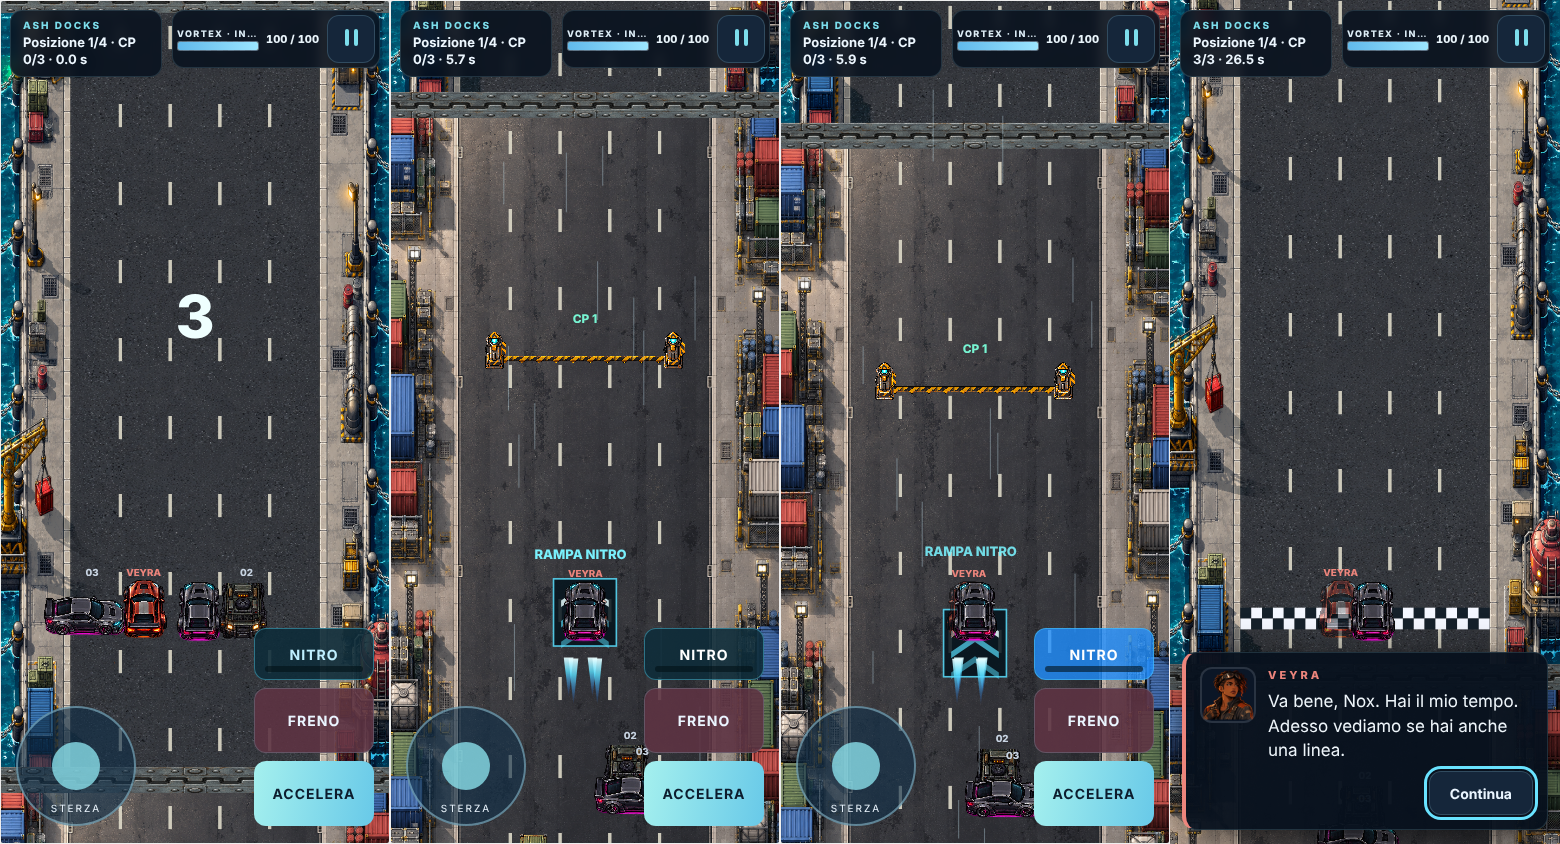
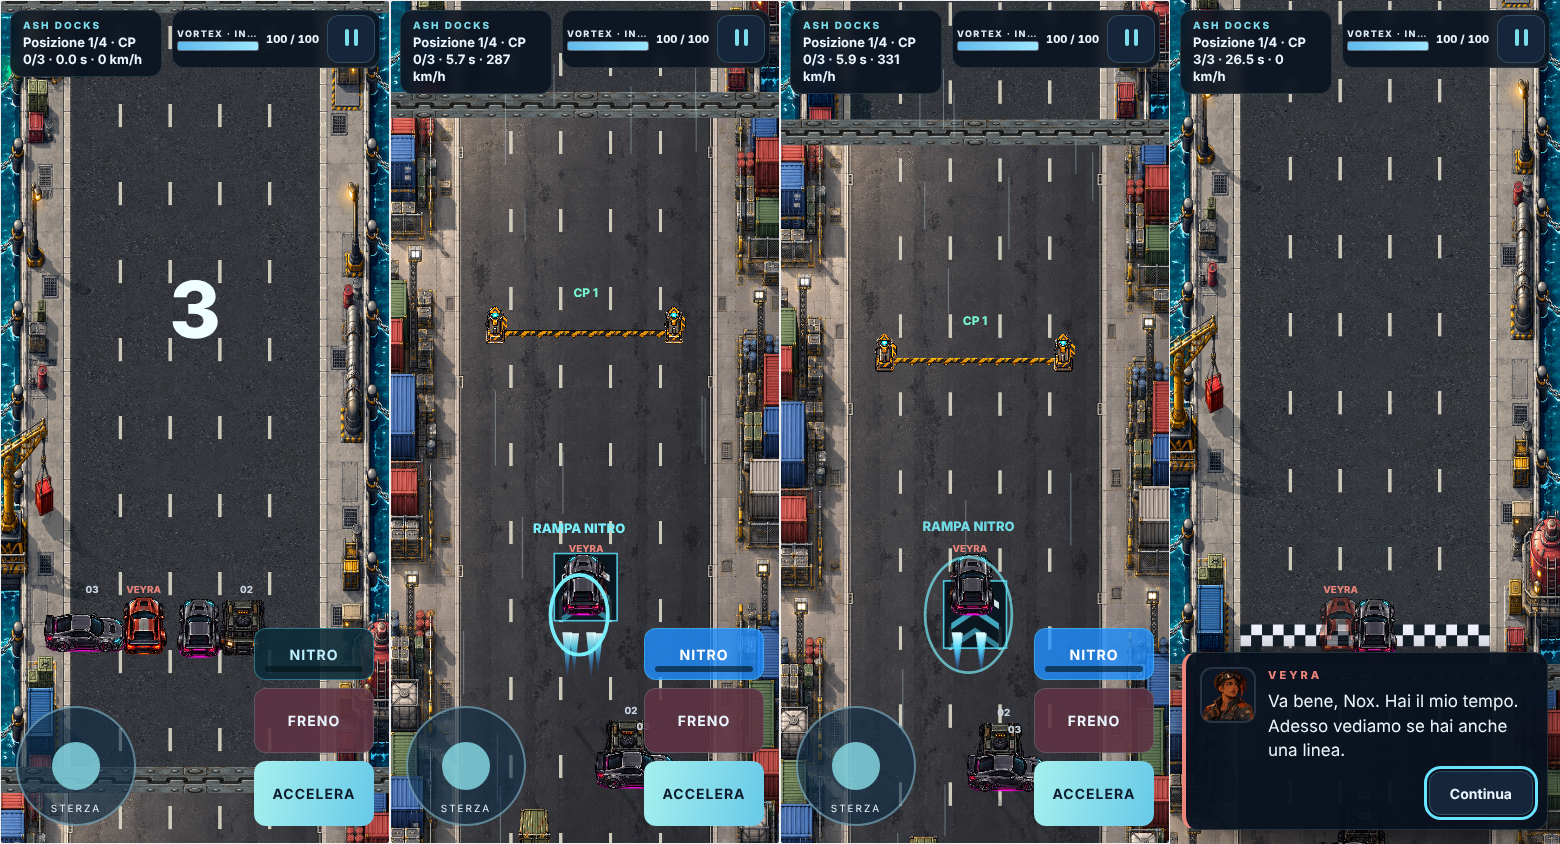
Controls: floating stick anywhere on the map, livelier driving, haptics (D16)
A finger on any open part of the map spawns the stick under it: steering while driving,
movement on foot; the ring follows the finger past its edge. Races: camera leans into
turns and lifts with speed, the Vortex rolls, bounces on hits and stretches on nitro, tyre
marks, kerb sparks, dust and spray, rings on checkpoints and boosts, animated countdown and
GO, ACCELERATE pulses in the perfect-start window, speed in km/h. Vibration on hits, nitro,
pads, start and checkpoints, switchable in Pause (Android VIBRATE permission). Reduced
motion disables lean, particles and pulses. Browser checks: drag on the map moves Nox and
steers the Vortex in both orientations; campaign A, controls and hub race PASS.

Claude-Session: https://claude.ai/code/session_01BT5bssz8wxobfyJt6rg4Qi

diff --git a/game/index.html b/game/index.html
@@ -11,12 +11,12 @@
 <div id="controls" hidden><div id="stick" aria-label="Muovi"><div id="knob"></div></div><div class="actions"><button id="heal" hidden aria-label="Cura"><img src="art/v09/medseal.svg" alt=""><span id="heal-label">CURA · 0</span></button><button id="interact" hidden>Attiva</button><button id="duo" hidden>Duo</button><button id="magic" hidden>Pulse</button><button id="dash">Schiva</button><button id="gun" class="primary">Spara</button></div></div>
 <section id="weapon-controls" hidden aria-label="Armi"><span id="weapon-state"></span><button id="weapon-change"><i class="weapon-glyph" aria-hidden="true"></i>CAMBIA</button><button id="weapon-reload">RICARICA</button></section>
 <section id="field-kit" class="modal" hidden role="dialog" aria-modal="true" aria-labelledby="field-kit-title"><div class="card"><small>TESSA · TECNICA D’OFFICINA</small><h2 id="field-kit-title">Un attrezzo per ogni distanza.</h2><div class="tessa-gesture" aria-hidden="true"></div><p>«Il mio banco viaggia anche a officina chiusa. VX-9 a Nox: raffiche da tre. R-12 a Lulù: rosate da vicino. La C-9 resta con voi.»</p><p>Il componente di Rook diventa Quickdraw: dopo Schiva, il prossimo tiro C-9 recupera più in fretta. Usa CAMBIA nel prossimo combattimento; RICARICA riempie il caricatore.</p><button id="equip-kit" class="primary">Monta Quickdraw e prendi le armi</button></div></section>
-<div id="driving-controls" hidden><div id="drive-stick" aria-label="Sterza"><div id="drive-knob"></div><span>STERZA</span></div><div><button id="pulse" hidden>IMPULSO</button><button id="nitro" hidden aria-label="Nitro">NITRO<span aria-hidden="true"><i></i></span></button><button id="brake">FRENO</button><button id="accelerate" class="primary">ACCELERA</button></div></div>
+<div id="float-stick" hidden aria-hidden="true"><div></div></div><div id="driving-controls" hidden><div id="drive-stick" aria-label="Sterza"><div id="drive-knob"></div><span>STERZA</span></div><div><button id="pulse" hidden>IMPULSO</button><button id="nitro" hidden aria-label="Nitro">NITRO<span aria-hidden="true"><i></i></span></button><button id="brake">FRENO</button><button id="accelerate" class="primary">ACCELERA</button></div></div>
 <section id="talk" hidden><div><i class="portrait"></i><div class="talk-body"><small id="speaker"></small><p id="line"></p><button id="next-line">Avanti</button></div></div></section>
 <section id="choice" class="modal" hidden role="dialog" aria-modal="true" aria-labelledby="choice-title"><div class="card"><small id="choice-kicker">SCEGLI</small><h2 id="choice-title"></h2><div id="choice-options"></div><p class="choice-note">Nessuna scelta è quella giusta. La città se le ricorda tutte.</p></div></section>
 <section id="hold" class="modal" hidden role="dialog" aria-modal="true" aria-labelledby="hold-title"><div class="card"><small id="hold-kicker"></small><h2 id="hold-title"></h2><p id="hold-text"></p><button id="hold-button" class="primary"><i id="hold-fill"></i><span id="hold-label">Tieni premuto</span></button></div></section>
 <section id="knock" hidden aria-label="Batti due volte"><p id="knock-prompt">Se mi senti, batti due volte.</p><button id="knock-surface" aria-label="Batti"><i id="knock-count" aria-hidden="true"></i></button></section>
-<section id="pause-panel" class="modal" hidden role="dialog" aria-modal="true"><div class="card"><small>CHRONOS ADVENTURE · NOX &amp; LULÚ</small><h2>Pausa</h2><label>Lingua <select id="language" aria-label="Lingua"><option value="it">Italiano</option><option value="en">English</option></select></label><label><input id="sound" type="checkbox"> Audio</label><label><input id="reduced" type="checkbox"> Riduci scosse dello schermo</label><p id="pause-help">Spara: tiro assistito. Trascina e rilascia per mirare.<br>Tastiera: WASD muovi · J spara · L abilità · E attiva · Q speciale · Maiusc schiva · H cura · V cambia arma · R ricarica.<br>Il salvataggio riparte dall’inizio della missione, o dal boss se l’hai già raggiunto.</p><button id="resume" class="primary">Riprendi</button><button id="restart-mission">Ricomincia la missione</button><button id="menu-return">Menu principale</button></div></section>
+<section id="pause-panel" class="modal" hidden role="dialog" aria-modal="true"><div class="card"><small>CHRONOS ADVENTURE · NOX &amp; LULÚ</small><h2>Pausa</h2><label>Lingua <select id="language" aria-label="Lingua"><option value="it">Italiano</option><option value="en">English</option></select></label><label><input id="sound" type="checkbox"> Audio</label><label><input id="reduced" type="checkbox"> Riduci scosse dello schermo</label><label><input id="haptics" type="checkbox"> Vibrazione</label><p id="pause-help">Spara: tiro assistito. Trascina e rilascia per mirare.<br>Tastiera: WASD muovi · J spara · L abilità · E attiva · Q speciale · Maiusc schiva · H cura · V cambia arma · R ricarica.<br>Il salvataggio riparte dall’inizio della missione, o dal boss se l’hai già raggiunto.</p><button id="resume" class="primary">Riprendi</button><button id="restart-mission">Ricomincia la missione</button><button id="menu-return">Menu principale</button></div></section>
 <section id="result" class="modal" hidden role="dialog" aria-modal="true"><div class="card"><small id="result-tag"></small><h2 id="result-title"></h2><p id="result-text"></p><p id="result-tip" hidden></p><div id="upgrades"><button id="power" class="primary">Avanti · Abilità rapida<small>Ricarica dell’abilità più veloce</small></button><button id="shield">Avanti · Protezione<small>+2 punti vita nella prossima missione</small></button></div><button id="supply" hidden>Visita gli hub</button><button id="next" class="primary" hidden>Avanti</button><button id="retry" hidden>Riprova</button></div></section>
 <section id="restart" class="modal" hidden role="dialog" aria-modal="true"><div class="card"><h2>Nuova storia?</h2><p>Sostituirà il progresso salvato.</p><button id="confirm-new" class="primary">Ricomincia</button><button id="cancel-new">Conserva la partita</button></div></section>
 <section id="city-choice" class="modal" hidden role="dialog" aria-modal="true" aria-labelledby="city-choice-title"><div class="card"><small>BLACKOUT · UNA SOLA BATTERIA</small><h2 id="city-choice-title">A chi restituiamo la luce?</h2><p>La gang è fuori dal cantiere. La batteria rimasta può alimentare l’officina o il rifugio.</p><button id="choose-workshop"><b>Alimenta l’officina</b><small>Dario rinforza la Vortex: +1 integrità.<br>Il rifugio resta con le lampade di emergenza.</small></button><button id="choose-shelter"><b>Alimenta il rifugio</b><small>Mira apre una strada con meno ostacoli.<br>L’officina resta chiusa.</small></button><p class="choice-note">La decisione resta. La città la ricorderà.</p></div></section>

diff --git a/game/style.css b/game/style.css
@@ -332,3 +332,14 @@ button small{color:inherit;font-weight:400;opacity:.85}
  #weapon-controls{left:calc(max(16px,env(safe-area-inset-left)) + 128px);right:auto;bottom:max(16px,env(safe-area-inset-bottom));width:min(300px,calc(100vw - 520px - env(safe-area-inset-left) - env(safe-area-inset-right)));grid-template-columns:1fr 72px 72px;gap:4px}
  #weapon-controls button{min-height:48px;font-size:10px}
 }
+
+/* Floating stick: appears under the finger anywhere on the open map. */
+#float-stick{position:fixed;width:132px;height:132px;margin:-66px 0 0 -66px;border-radius:50%;border:2px solid #b2edff80;background:radial-gradient(circle,#173049aa,#0c1b2c66);pointer-events:none;z-index:5;box-shadow:0 0 24px #59e0ff33}
+#float-stick.axis{height:84px;margin-top:-42px;border-radius:42px}
+#float-stick>div{position:absolute;left:41px;top:41px;width:50px;height:50px;border-radius:50%;background:#8ce3edd9;box-shadow:0 0 18px #6bddff88}
+#float-stick.axis>div{top:17px}
+#driving-controls button{transition:transform .08s,box-shadow .12s}
+#driving-controls button.held{transform:scale(.93);filter:brightness(1.25)}
+#accelerate.go-now{box-shadow:0 0 0 3px #9ff7b8,0 0 26px #9ff7b8;animation:go-now .3s ease-in-out infinite alternate}
+@keyframes go-now{to{transform:scale(1.06)}}
+.reduced-motion #accelerate.go-now{animation:none}

diff --git a/docs/gold/DECISIONI.md b/docs/gold/DECISIONI.md
@@ -19,6 +19,7 @@ Aggiornamento armi impugnate: due adattamenti reali VX-9/R-12 integrati e provat
 | D13 | Sheet 4×4 di eroi e nemici: impaginazione pulita senza ridisegno | In tutti i 14 sheet 4×4 (camminata, azioni, tiro, magia di Nox e Lulù, VX-9/R-12, quattro famiglie di nemici) le pose sconfinavano dalla cella: in gioco la vista di schiena e i nemici avevano le scarpe tagliate, e le stesse scarpe galleggiavano sopra la testa della posa sotto (vista frontale, colpito, morte); lampi e raggi lasciavano schegge nelle celle vicine. `tools/clean_sheet_layout.py` isola ogni posa e la incolla in una cella più grande; una riga con i piedi tagliati sale quanto basta perché la suola tocchi la linea di terra, come le pose già intere e le ricariche; tutto il resto resta al suo posto. `game/sheet-layout.mjs` dice a `drawLegacySprite` dove sta la cella originale, quindi la scala a schermo non cambia. Originali in `assets/source/sheets_v05_v10_original/`. Prove: `docs/evidence/v10.2/sheet-layout/`. |
 | D14 | Varietà visiva e metodo di produzione con Terra | Su indicazione dell'autore nessuna famiglia scende a P2: si aggiungono varianti. Armi con maschera sopra lo sheet in gioco (fuori maschera pixel identici), strade con giunto comune e mappe luci notturne (la notte si ricava dal giorno, geometria identica), container con lo stesso riquadro d'urto. Terra riceve gli strumenti di controllo e consegna solo con PASS. Piano: [VARIETA_VISIVA.md](VARIETA_VISIVA.md); richiesta: `requests/terra-giro1-20261027/`. |
 | D15 | Gare: nitro e ostacoli nuovi | Su indicazione dell'autore (più varianti di gare e di ostacoli, momenti nitro). **Nitro:** barra 0–100; con metà barra il nitro dura 2,2 s (+130 di velocità massima). Si carica sfiorando un ostacolo (+22), infilando il varco di uno sbarramento (+20), centrando un checkpoint (+15) e in scia a un'auto (6/s). Le rampe nitro danno 1,3 s senza costo. Partenza perfetta: acceleratore negli ultimi 0,6 s del conto alla rovescia, 1,2 s di spinta; troppo presto non dà spinta né penalità. Un urto azzera il nitro. **Ostacoli:** sbarramento (container su ogni corsia tranne una; ognuno urta come un container singolo), carico della gru che oscilla su tre corsie, chiazza d'olio o di sabbia (niente danni, meno aderenza e velocità). **Avversari:** stesse regole; Veyra carica come il giocatore, 02 e 03 a metà, e non usano il nitro se sono oltre 600 avanti. Con le auto pilota di prova, chi parte perfetto e usa il nitro batte Veyra in 6 gare su 7; chi parte senza tempismo arriva di norma 2° o 3°. Grafica disegnata dal gioco finché Terra non consegna gli asset (giro 2). |
+| D16 | Comandi: joystick flottante e risposta della guida | Su indicazione dell'autore (joystick che funziona su tutta la mappa con il dito, guida più coinvolgente). Un dito appoggiato in qualunque punto libero della mappa fa comparire il joystick sotto il dito: in guida sterza (solo orizzontale), a piedi muove. Il cerchio segue il dito oltre il bordo, così invertire costa un solo gesto. Il joystick fisso resta. **Guida:** la camera si piega in curva e alza l'auto con la velocità (più strada davanti); l'auto rolla in curva, rimbalza negli urti e si allunga col nitro; segni delle gomme, scintille sul cordolo, polvere e schizzi; anelli su checkpoint e nitro; conto alla rovescia animato, «VIA!», ACCELERA che pulsa nella finestra della partenza perfetta; velocità in km/h. **Vibrazione** su urti, nitro, rampe, partenza e checkpoint, disattivabile in Pausa; su Android aggiunge il permesso VIBRATE (normale, senza richiesta all'utente). Con «Riduci scosse» niente inclinazione della camera, particelle né pulsazioni. |
 
 Le tre scelte condizionali restano tracciate nel piano V10.2 e nella matrice; questa decisione non riduce le sette gare originali, le tre gare pianificate, i 17 incontri, le nove regioni o le cinque armi base.
 

diff --git a/docs/gold/STATO.md b/docs/gold/STATO.md
@@ -20,6 +20,7 @@ Aggiornamento armi impugnate: due adattamenti reali VX-9/R-12 integrati e provat
 - **Blocco 7 — Correzioni Astra f727255 (INTEGRATO PARZIALE, D10).** Integrati: G11 riesportato, segmento del cavo e corsia della spazzata di The Anchor, piloni e nastro dei checkpoint larghi, bip 3-2-1 e via. Conservate le icone H-17. Respinte le strade (ritmo del tratteggio spezzato alla giunzione). Terminale del cavo prima respinto, poi sistemato dal team su richiesta dell autore. **APERTO G6/G7**: decisione sulle basi degli sheet H-17/ARC-7. La consegna non è completa.
 - **Giro 3 Astra (richiesta revisione 4, `ddd5d29`): CONSEGNA INCOMPLETA, nulla da integrare.** Il ramo `delivery/astra-giro3-20261027` (`7c90967`) contiene solo `STATO_INCOMPLETO.md`: ZIP di richiesta verificati da Astra, nessun asset consegnato. G6/G7: il generatore altera il personaggio (1.865/2.000 pixel della testa diversi dal riferimento) e gli effetti sconfinano. G4: solo un master giorno intermedio senza segnaletica, non esportato né misurato, manca la notte. Restano APERTI G4 e G6/G7; in gioco H-17 e ARC-7 si impugnano con lo sheet base C-9 (`nox_gun`, `lulu_gun`) senza animazione di ricarica, e le gare usano la strada `driving_road`.
 - **Blocco 8 — Pulizia degli sheet 4×4 (D13).** Corretti 14 sheet: niente più scarpe tagliate nella vista di schiena e nei nemici, niente scarpe o effetti che galleggiano sopra la testa della posa sotto, niente schegge di lampi nelle celle vicine. Nessun pixel ridisegnato o riscalato. Prove: test `sheet-layout` (posizione a schermo di ogni riga), verifica browser con il vero `drawLegacySprite` (PASS, 14 sheet, nessun pixel sul bordo delle celle), campagna A PASS (31 tappe), armi equipaggiate PASS, The Anchor PASS, 204/204 test. Revisione visiva umana e prova su dispositivo Android restano da fare.
+- **Comandi (D16): joystick flottante su tutta la mappa** (guida e a piedi), animazioni di guida (camera in curva, rollio, segni gomme, scintille, anelli, conto alla rovescia animato), velocità in km/h, vibrazione disattivabile (permesso Android VIBRATE). Verifica nel browser: il trascinamento sulla mappa muove Nox e sterza la Vortex in entrambi gli orientamenti. Sensazione al tatto da provare su dispositivo.
 - **Gare (D15): nitro e ostacoli nuovi.** Barra nitro con pulsante NITRO (anche Spazio/Maiusc), rampe nitro, partenza perfetta, scia, sfiorati. Nuovi ostacoli: sbarramento con varco, carico della gru, chiazze d'olio e di sabbia, distribuiti nelle sette gare. Test 211/211; verifica gare nel browser PASS a 390×844 e 844×390 (partenza perfetta, nitro, pulsante). Suoni ancora sintetizzati e grafica dei nuovi ostacoli disegnata dal gioco: asset dedicati da chiedere a Terra. Bilanciamento verificato solo con l'auto pilota di prova, non da giocatori.
 - **Terra giro 1 (D14): INTEGRATO PARZIALE.** G5b integrato: quattro modelli di container in gara. G4 integrato con composizione del team dai tentativi di Terra: tre strade di Ash Docks di giorno e di notte, con sequenze fisse per gara. Il controllo strade dà PASS e la verifica gare PASS in entrambi gli orientamenti. Differenze dichiarate: marciapiedi stretti in orizzontale; oggetti tagliati sotto il giunto invece di chiusi da un paletto. **APERTO G6/G7 (armi)**: le viste isolate ci sono, manca la composizione con maschera delle 64 celle. Dettaglio: [TERRA_INTEGRAZIONE_20261027.md](TERRA_INTEGRAZIONE_20261027.md).
 
